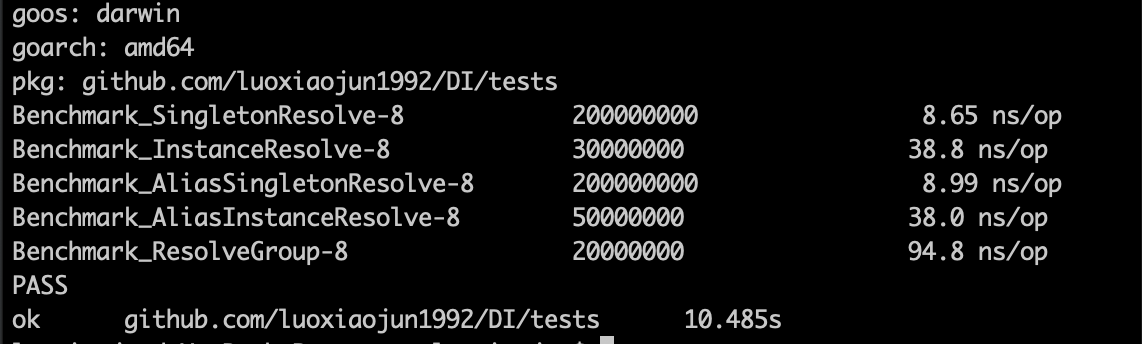
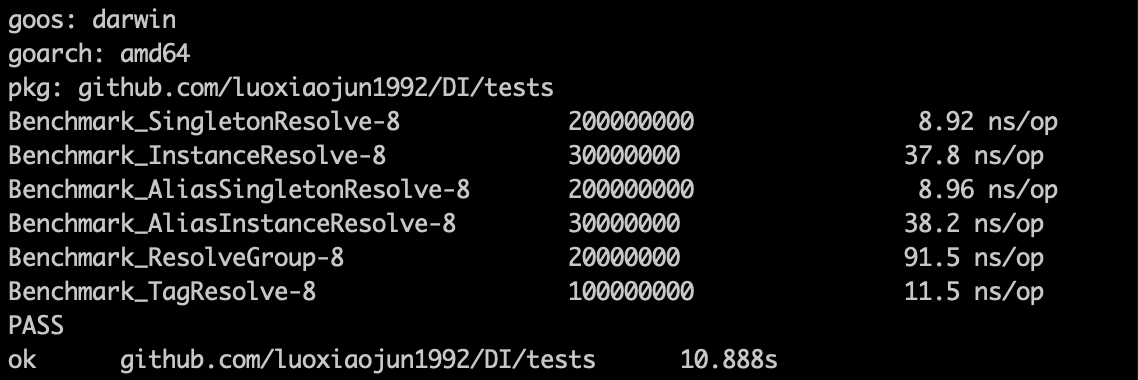
feat: resolve tag dependency

diff --git a/tests/DI_test.go b/tests/DI_test.go
@@ -1,9 +1,9 @@
 package tests
 
 import (
-	"testing"
 	"github.com/luoxiaojun1992/DI"
 	"log"
+	"testing"
 )
 
 func Test_SingletonResolve(t *testing.T) {
@@ -16,7 +16,7 @@ func Test_SingletonResolve(t *testing.T) {
 		t.Fatal("UserService not found")
 	}
 
-	val, ok := userService.(struct{name string})
+	val, ok := userService.(struct{ name string })
 	if !ok {
 		t.Fatal("UserService type error")
 	}
@@ -38,7 +38,7 @@ func Test_InstanceResolve(t *testing.T) {
 		t.Fatal("UserService not found")
 	}
 
-	val, ok := userService.(struct{name string})
+	val, ok := userService.(struct{ name string })
 	if !ok {
 		t.Fatal("UserService type error")
 	}
@@ -59,7 +59,7 @@ func Test_AliasSingletonResolve(t *testing.T) {
 		t.Fatal("UserService not found")
 	}
 
-	val, ok := userService.(struct{name string})
+	val, ok := userService.(struct{ name string })
 	if !ok {
 		t.Fatal("UserService type error")
 	}
@@ -82,7 +82,7 @@ func Test_AliasInstanceResolve(t *testing.T) {
 		t.Fatal("UserService not found")
 	}
 
-	val, ok := userService.(struct{name string})
+	val, ok := userService.(struct{ name string })
 	if !ok {
 		t.Fatal("UserService type error")
 	}
@@ -111,7 +111,7 @@ func Test_ResolveGroup(t *testing.T) {
 		t.Fatal("UserService not found")
 	}
 
-	user, ok := services[0].(struct{name string})
+	user, ok := services[0].(struct{ name string })
 	if !ok {
 		t.Fatal("UserService type error")
 	}
@@ -124,7 +124,7 @@ func Test_ResolveGroup(t *testing.T) {
 		t.Fatal("GoodsService not found")
 	}
 
-	goods, ok := services[1].(struct{name string})
+	goods, ok := services[1].(struct{ name string })
 	if !ok {
 		t.Fatal("GoodsService type error")
 	}
@@ -137,7 +137,7 @@ func Test_ResolveGroup(t *testing.T) {
 		t.Fatal("OrderService not found")
 	}
 
-	order, ok := services[2].(struct{name string})
+	order, ok := services[2].(struct{ name string })
 	if !ok {
 		t.Fatal("OrderService type error")
 	}
@@ -147,14 +147,44 @@ func Test_ResolveGroup(t *testing.T) {
 	}
 }
 
+func Test_TagResolve(t *testing.T) {
+	DI.Singleton("UserService", struct {
+		name string
+	}{name: "hello"})
+
+	DI.Tag("TagDemo", &struct {
+		Name interface{} `dep:"UserService"`
+	}{Name: "test"})
+
+	tagDemo := DI.Resolve("TagDemo")
+	if tagDemo == nil {
+		t.Fatal("TagDemo not found")
+	}
+
+	val, ok := tagDemo.(*struct {
+		Name interface{} `dep:"UserService"`
+	})
+	if !ok {
+		t.Fatal("TagDemo type error")
+	}
+
+	userService, ok := val.Name.(struct{ name string })
+	if !ok {
+		t.Fatal("UserService type error")
+	}
+	if userService.name != "hello" {
+		t.Fatal("User name is incorrect")
+	}
+}
+
 func Benchmark_SingletonResolve(b *testing.B) {
 	DI.Singleton("UserService", struct {
 		name string
 	}{name: "hello"})
 
 	i := 0
-	for ;i <= b.N;i++ {
-		if DI.Resolve("UserService").(struct{name string}).name != "hello" {
+	for ; i <= b.N; i++ {
+		if DI.Resolve("UserService").(struct{ name string }).name != "hello" {
 			log.Fatal("User name is incorrect")
 		}
 	}
@@ -168,8 +198,8 @@ func Benchmark_InstanceResolve(b *testing.B) {
 	})
 
 	i := 0
-	for ;i <= b.N;i++ {
-		if DI.Resolve("UserService").(struct{name string}).name != "hello" {
+	for ; i <= b.N; i++ {
+		if DI.Resolve("UserService").(struct{ name string }).name != "hello" {
 			log.Fatal("User name is incorrect")
 		}
 	}
@@ -182,8 +212,8 @@ func Benchmark_AliasSingletonResolve(b *testing.B) {
 	DI.Alias("UserServ", "UserService")
 
 	i := 0
-	for ;i <= b.N;i++ {
-		if DI.Resolve("UserServ").(struct{name string}).name != "hello" {
+	for ; i <= b.N; i++ {
+		if DI.Resolve("UserServ").(struct{ name string }).name != "hello" {
 			log.Fatal("User name is incorrect")
 		}
 	}
@@ -198,8 +228,8 @@ func Benchmark_AliasInstanceResolve(b *testing.B) {
 	DI.Alias("UserServ", "UserService")
 
 	i := 0
-	for ;i <= b.N;i++ {
-		if DI.Resolve("UserServ").(struct{name string}).name != "hello" {
+	for ; i <= b.N; i++ {
+		if DI.Resolve("UserServ").(struct{ name string }).name != "hello" {
 			log.Fatal("User name is incorrect")
 		}
 	}
@@ -218,21 +248,40 @@ func Benchmark_ResolveGroup(b *testing.B) {
 		name string
 	}{name: "new order"})
 
-
 	i := 0
-	for ;i <= b.N;i++ {
+	for ; i <= b.N; i++ {
 		services := DI.ResolveGroup([]string{"UserService", "GoodsService", "OrderService"})
 
-		if services[0].(struct{name string}).name != "new user" {
+		if services[0].(struct{ name string }).name != "new user" {
 			log.Fatal("User name is incorrect")
 		}
 
-		if services[1].(struct{name string}).name != "new goods" {
+		if services[1].(struct{ name string }).name != "new goods" {
 			log.Fatal("Goods name is incorrect")
 		}
 
-		if services[2].(struct{name string}).name != "new order" {
+		if services[2].(struct{ name string }).name != "new order" {
 			log.Fatal("Order name is incorrect")
+		}
+	}
+}
+
+func Benchmark_TagResolve(b *testing.B) {
+	DI.Singleton("UserService", struct {
+		name string
+	}{name: "hello"})
+
+	DI.Tag("TagDemo", &struct {
+		Name interface{} `dep:"UserService"`
+	}{Name: "test"})
+
+	i := 0
+	for ; i <= b.N; i++ {
+		tagDemo := DI.Resolve("TagDemo")
+		if tagDemo.(*struct {
+			Name interface{} `dep:"UserService"`
+		}).Name.(struct{ name string }).name != "hello" {
+			log.Fatal("User name is incorrect")
 		}
 	}
 }

diff --git a/DI.go b/DI.go
@@ -1,5 +1,9 @@
 package DI
 
+import (
+	"reflect"
+)
+
 // Dependency Container
 var container map[string]interface{}
 
@@ -45,6 +49,21 @@ func Alias(alias string, originName string) {
 	if resource != nil {
 		container[alias] = resource
 	}
+}
+
+// Inject singleton resource with tags
+func Tag(name string, resource interface{}) {
+	// Reference
+	reflectType := reflect.TypeOf(resource).Elem()
+	reflectValue := reflect.ValueOf(resource).Elem()
+
+	i := 0
+	for ;i < reflectType.NumField();i++ {
+		depName := reflectType.Field(i).Tag.Get("dep")
+		reflectValue.Field(i).Set(reflect.ValueOf(Resolve(depName)))
+	}
+
+	Singleton(name, resource)
 }
 
 // Reset container

diff --git a/README.md b/README.md
@@ -5,8 +5,10 @@ Dependency Injection in Go
 * Singleton Register
 * Instance Register
 * Alias Register
+* Tag Register
 * Resolve Single Dependency
 * Resolve Grouped Dependency
+* Resolve Tag Dependency
 
 # Test Result
 ![](docs/test_result.png)
@@ -30,6 +32,12 @@ DI.Resolve("UserService")
 //Alias Register
 DI.Alias("UserServ", "UserService")
 DI.Resolve("UserServ")
+
+//Tag Register
+DI.Tag("TagDemo", &struct {
+		Name interface{} `dep:"UserService"`
+	}{Name: "test"})
+DI.Resolve("TagDemo")
 
 //Resolve Grouped Dependency
 DI.Singleton("UserService", struct {
